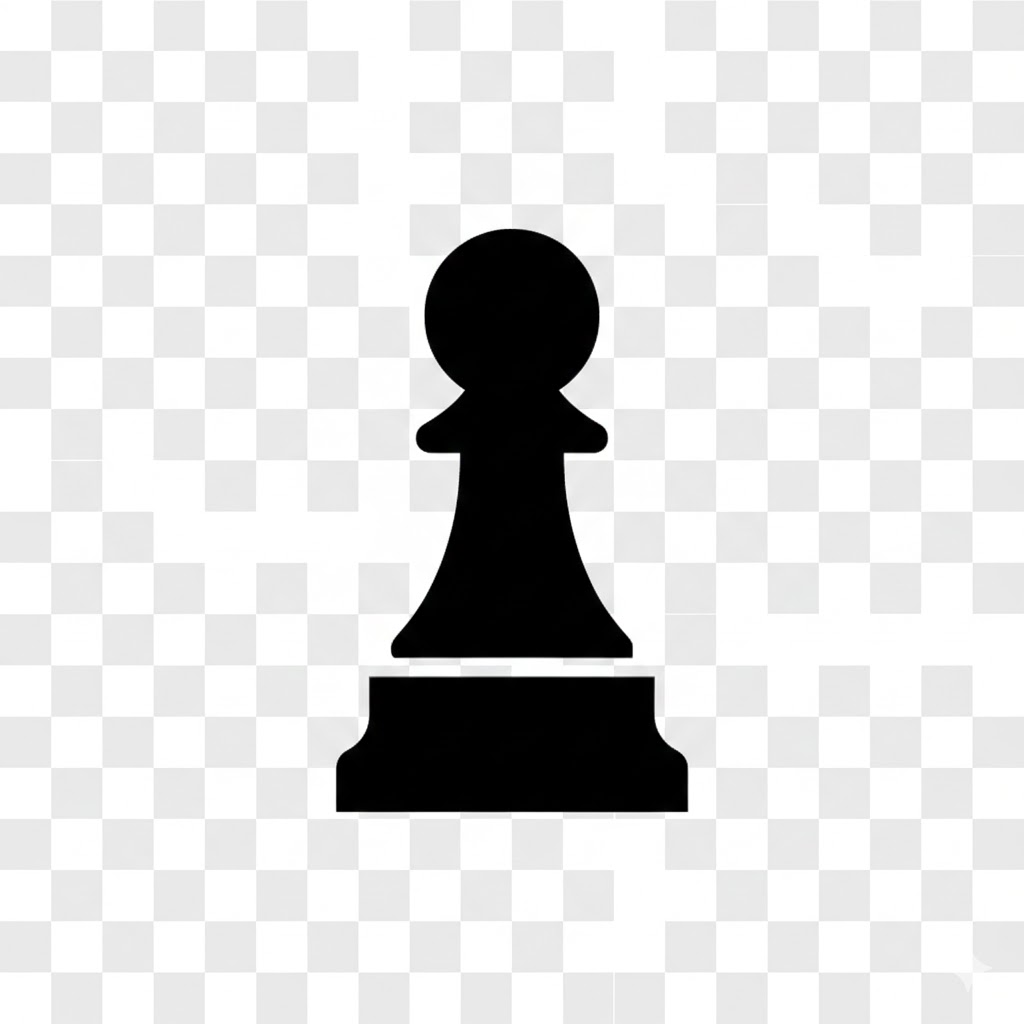
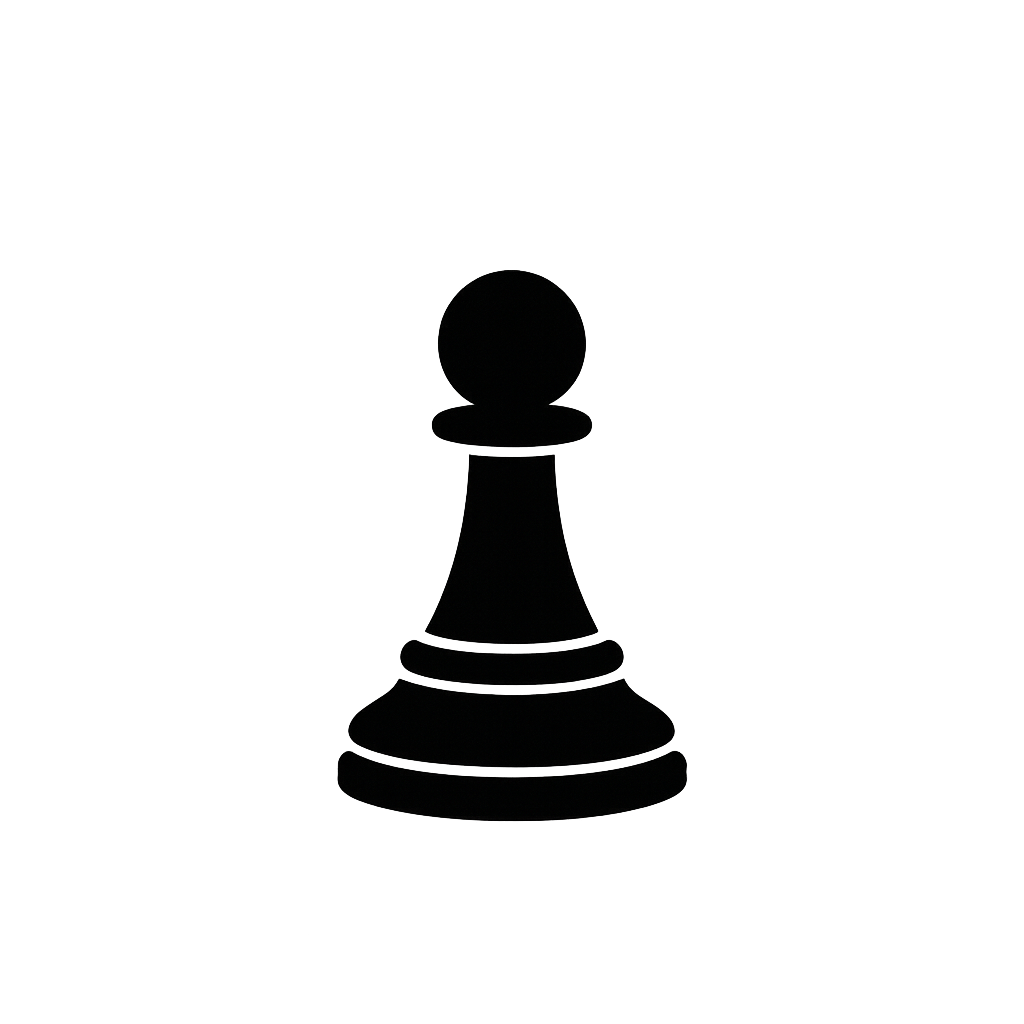
Añadidos multimedia
Añado las imágenes para cada pieza, incrusto un video de YT en el índice.

diff --git a/instrucciones.html b/instrucciones.html
@@ -22,10 +22,10 @@
 </nav>
 <h2>Instrucciones</h2>
 <div class="desc">
-    <div class="pieza">
-        <img src="./media/peon.png">
+    <div class="pieza_ic">
+        <img src="./media/peon.png" alt="Peon" width="150" height="150">
     </div>
-    <div class="pieza">
+    <div class="pieza_de">
         Peón
         Es la pieza más numerosa y, aunque parece débil, es la base de la estructura defensiva.
         • Movimiento: Solo hacia adelante, una casilla por turno. En su primer movimiento, tiene la opción de avanzar dos casillas.
@@ -34,10 +34,10 @@
     </div>
 </div>
 <div class="desc">
-    <div class="pieza">
-        imagen
+    <div class="pieza_ic">
+        <img src="./media/alfil.png" alt="Alfil" width="150" height="150">
     </div>
-    <div class="pieza">
+    <div class="pieza_de">
         Alfil
         Cada jugador empieza con dos: uno que siempre irá por casillas blancas y otro por casillas negras.
         • Movimiento: Se desplaza en diagonal tantas casillas como desee.
@@ -45,10 +45,10 @@
     </div>
 </div>
 <div class="desc">
-    <div class="pieza">
-        imagen
+    <div class="pieza_ic">
+        <img src="./media/caballo.png" alt="Caballo" width="150" height="150">
     </div>
-    <div class="pieza">
+    <div class="pieza_de">
         Caballo
         Es la única pieza que puede "saltar" sobre otras, lo que la hace impredecible.
         • Movimiento: Se mueve en forma de "L". Esto es: dos casillas en una dirección (horizontal o vertical) y luego una en perpendicular.
@@ -56,10 +56,10 @@
     </div>
 </div>
 <div class="desc">
-    <div class="pieza">
-        imagen
+    <div class="pieza_ic">
+        <img src="./media/torre.png" alt="Torre" width="150" height="150">
     </div>
-    <div class="pieza">
+    <div class="pieza_de">
         Torre
         Es una pieza de largo alcance, muy poderosa en finales de partida.
         • Movimiento: Se desplaza en línea recta de forma horizontal o vertical tantas casillas como quiera, siempre que no haya piezas en su camino.
@@ -67,10 +67,10 @@
     </div>
 </div>
 <div class="desc">
-    <div class="pieza">
-        imagen
+    <div class="pieza_ic">
+        <img src="./media/reina.png" alt="Reina" width="150" height="150">
     </div>
-    <div class="pieza">
+    <div class="pieza_de">
         Reina
         Es la pieza más versátil y peligrosa del tablero, combinando los poderes de la Torre y el Alfil.
         • Movimiento: Puede moverse en cualquier dirección (horizontal, vertical o diagonal) tantas casillas como quiera.
@@ -78,10 +78,10 @@
     </div>
 </div>
 <div class="desc">
-    <div class="pieza">
-        imagen
+    <div class="pieza_ic">
+        <img src="./media/rey.png" alt="Rey" width="150" height="150">
     </div>
-    <div class="pieza">
+    <div class="pieza_de">
         Rey
         Es la pieza más importante; si lo pierdes, se acaba la partida.
         • Movimiento: Puede moverse en cualquier dirección (horizontal, vertical o diagonal), pero solo una casilla por turno.

diff --git a/estilos.css b/estilos.css
@@ -1,3 +1,9 @@
+.autocenter {
+  max-width: 1264px;
+  margin: auto;
+  text-align: center;
+}
+
 html, body {
     margin: 0;
     padding: 0;
@@ -67,15 +73,24 @@ body {
   gap: 20%;
   display: flex;
   justify-content: center;
+  background-color: rgb(64, 224, 208, 0.5);
+  border-radius: 9%;
+  border: solid black;
+  padding: 1%;
+
 }
 
-.pieza{
-    background-color: rgb(64, 224, 208, 0.5);
-    width: 50%;
-    height: 30%;
+.pieza_de{
+
     display: block;
     color: black;
     text-align: center;
     transition: linear 1.5s;
-    border-radius: 4%;
+}
+
+.video {
+  border-radius: 4%;
+  border: solid 8px black;
+
+
 }

diff --git a/index.html b/index.html
@@ -21,6 +21,9 @@
         <a href="aboutus.html" class="colormenu">About Us</a>
     </div>
 </nav>
-<h2 class="tars">Indice</h2>
+<h2>Indice</h2>
+
+<iframe class="video autocenter" width="660" height="415" src="https://www.youtube.com/embed/G7iGNPzaQIY?si=mp0QTHRW5IUMXm8d" title="YouTube video player" frameborder="0" allow="accelerometer; autoplay; clipboard-write; encrypted-media; gyroscope; picture-in-picture; web-share" referrerpolicy="strict-origin-when-cross-origin" allowfullscreen></iframe>
+
 </body>
 </html>
